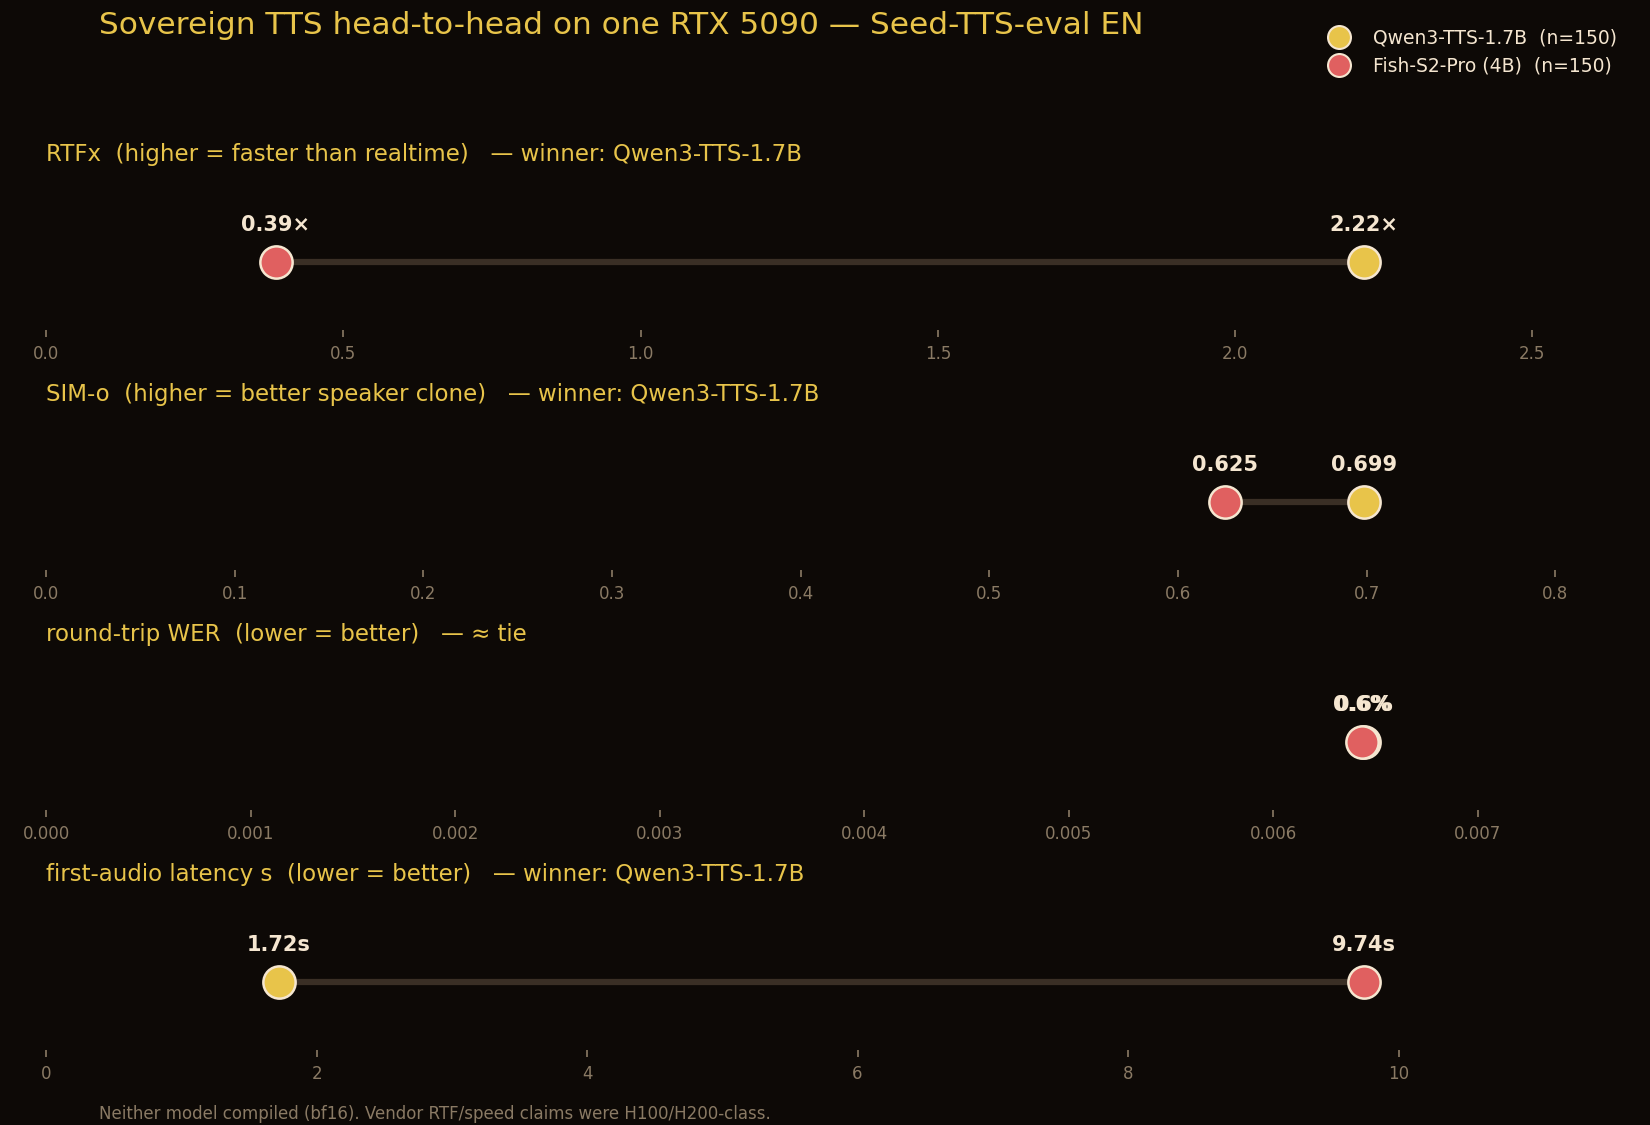
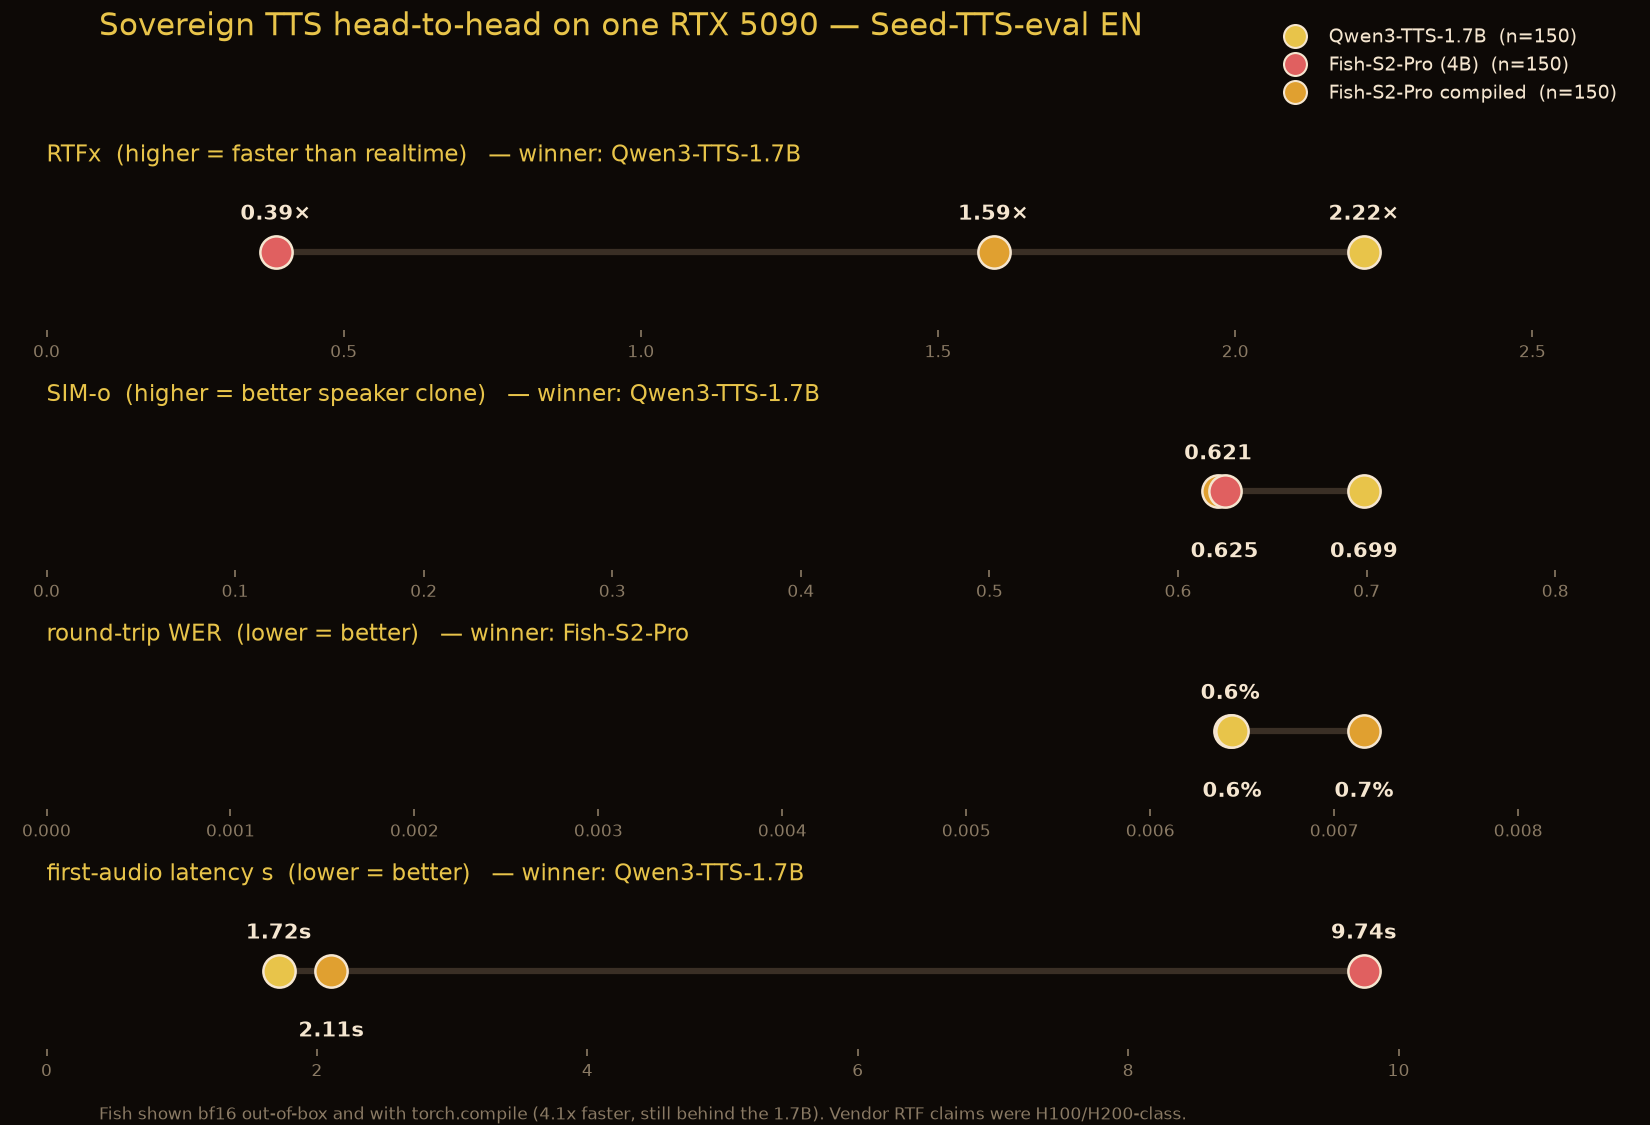
tts: compiled-Fish follow-up — torch.compile is 4.1x but the 1.7B still wins
Re-ran Fish-S2-Pro with --compile on sm_120, same 150 Seed-TTS EN utts.
RTFx 0.39x -> 1.59x (4.1x), first-audio 9.74s -> 2.11s (4.6x); WER/SIM-o
unchanged (pure speed lever). Gap to Qwen3-TTS-1.7B shrinks 5.7x -> 1.4x but
does not close: even compiled, the 4x-smaller 1.7B wins both speed axes with no
compile step. Adds compiled column + follow-up section + 3-way chart.

diff --git a/scripts/chart_tts.py b/scripts/chart_tts.py
@@ -11,7 +11,8 @@ import matplotlib.pyplot as plt
 BG, GOLD, CRIMSON, TEXT, GRID, MUTE = ("#0d0906", "#e8c44a", "#e06060", "#f5e6d0", "#3a2f25", "#8a7a64")
 
 # (slug, label, color)
-MODELS = [("qwen3-tts", "Qwen3-TTS-1.7B", GOLD), ("fish-s2-pro", "Fish-S2-Pro (4B)", CRIMSON)]
+MODELS = [("qwen3-tts", "Qwen3-TTS-1.7B", GOLD), ("fish-s2-pro", "Fish-S2-Pro (4B)", CRIMSON),
+          ("fish-s2-pro-compiled", "Fish-S2-Pro compiled", "#e0a030")]
 # (agg key, axis label, higher_is_better, value format)
 AXES = [
     ("rtfx_mean", "RTFx  (higher = faster than realtime)", True, "{:.2f}×"),
@@ -30,10 +31,15 @@ for ax, (key, label, hib, fmt) in zip(axs, AXES):
     lo, hi = min(v for v, _, _ in vals), max(v for v, _, _ in vals)
     # the connecting bar
     ax.plot([lo, hi], [0, 0], color=GRID, lw=3, zorder=1, solid_capstyle="round")
-    for v, lbl, col in vals:
+    span = (hi * 1.20) or 1.0
+    last_x = -1e9
+    for v, lbl, col in sorted(vals, key=lambda t: t[0]):
         ax.scatter([v], [0], s=240, color=col, edgecolor=TEXT, lw=1.2, zorder=3)
-        ax.annotate(fmt.format(v), (v, 0), xytext=(0, 13), textcoords="offset points",
-                    color=TEXT, ha="center", va="bottom", fontsize=10, fontweight="bold", zorder=4)
+        close = (v - last_x) < 0.10 * span      # too near the previous label -> drop this one below
+        ax.annotate(fmt.format(v), (v, 0), xytext=(0, -24 if close else 13),
+                    textcoords="offset points", color=TEXT, ha="center",
+                    va="top" if close else "bottom", fontsize=10, fontweight="bold", zorder=4)
+        last_x = v
     # verdict: a near-equal gap is a tie, not a "winner" (avoids exaggerating noise)
     rel = abs(hi - lo) / (hi or 1.0)
     if rel < 0.03:
@@ -44,7 +50,7 @@ for ax, (key, label, hib, fmt) in zip(axs, AXES):
     ax.set_title(f"{label}   — {verdict}", color=GOLD, fontsize=11, loc="left", pad=10)
     # baseline at 0 so tiny absolute gaps (e.g. a WER tie) aren't exaggerated by auto-scale
     ax.set_xlim(0, hi * 1.20)
-    ax.set_ylim(-1.2, 1.4)
+    ax.set_ylim(-1.8, 1.6)
     ax.get_yaxis().set_visible(False)
     ax.tick_params(colors=MUTE, labelsize=8)
     for sp in ax.spines.values():
@@ -57,7 +63,7 @@ fig.legend(handles=handles, loc="upper right", frameon=False, labelcolor=TEXT, f
            bbox_to_anchor=(0.99, 0.99))
 fig.suptitle("Sovereign TTS head-to-head on one RTX 5090 — Seed-TTS-eval EN",
              color=GOLD, fontsize=15, x=0.06, ha="left", y=0.99)
-fig.text(0.06, 0.005, "Neither model compiled (bf16). Vendor RTF/speed claims were H100/H200-class.",
+fig.text(0.06, 0.005, "Fish shown bf16 out-of-box and with torch.compile (4.1x faster, still behind the 1.7B). Vendor RTF claims were H100/H200-class.",
          color=MUTE, fontsize=8, ha="left")
 fig.tight_layout(rect=[0, 0.02, 1, 0.94])
 fig.savefig("reports/tts-head-to-head.png", dpi=150, facecolor=BG)

diff --git a/reports/tts-head-to-head.md b/reports/tts-head-to-head.md
@@ -6,12 +6,12 @@
 
 ## The numbers (both n=150)
 
-| axis | Qwen3-TTS-1.7B | Fish-S2-Pro (4B) | winner |
-|---|---|---|---|
-| round-trip WER | 0.6% | 0.6% | ≈ tie |
-| SIM-o (speaker clone) | **0.699** | 0.625 | Qwen |
-| RTFx (× realtime) | **2.22×** | 0.39× | Qwen (**5.7×**) |
-| first-audio latency | **1.72s** | 9.74s | Qwen |
+| axis | Qwen3-TTS-1.7B | Fish-S2-Pro (4B) | Fish-S2-Pro compiled | winner |
+|---|---|---|---|---|
+| round-trip WER | 0.6% | 0.6% | 0.7% | ≈ tie |
+| SIM-o (speaker clone) | **0.699** | 0.625 | 0.621 | Qwen |
+| RTFx (× realtime) | **2.22×** | 0.39× | 1.59× | Qwen |
+| first-audio latency | **1.72s** | 9.74s | 2.11s | Qwen |
 
 **Both are equally intelligible. The small one is ~6× faster, clones a touch better, and answers ~6× sooner.** On a consumer 5090, out-of-the-box, the 1.7B Apache model is the better sovereign pick.
 
@@ -22,9 +22,18 @@
 - **Latency compounds it.** First audio at 1.72s (Qwen) vs 9.74s (Fish) — the 4B's longer generate makes it unusable for anything interactive without the compiled path.
 - **SIM-o: a real but modest edge to Qwen** (0.699 vs 0.625). Both clone faithfully from a single reference; Qwen's embeddings sit closer to the prompt speaker.
 
+## Compiled-Fish: does the gap close? (the follow-up, run 2026-06-22)
+
+Re-ran Fish through its `api_server` with `--compile` on the same 150 utterances, same sm_120 5090, everything else identical.
+
+- **Compile is a large, real lever on consumer hardware.** RTFx goes **0.39× → 1.59×** (4.1×) and first-audio **9.74s → 2.11s** (4.6×). Fish moves from 3× slower than realtime to 1.6× faster. The vendor's "fast with `torch.compile`" direction is not H200-only; it lands on a 5090.
+- **Quality is untouched** (WER 0.7%, SIM-o 0.621, both within noise of the out-of-box run) — confirming compile is a pure speed lever, not a quality trade.
+- **But it does not flip the verdict.** Even compiled, Fish (1.59×, 2.11s) still loses both speed axes to the 4×-smaller Qwen3-TTS-1.7B (2.22×, 1.72s), which needs no compile step at all. The gap shrinks from **5.7× to 1.4×**; it does not close.
+- **The cost is a one-time 110s compile warm-up** at server startup before the first synth.
+
 ## Caveats (read these before quoting the numbers)
 
-- **Neither model was compiled.** This is an honest out-of-the-box, single-5090 comparison. Fish's `api_server` supports `--compile`; with it, Fish's speed would improve materially (toward its H200 claim). The apples-to-apples choice here was no-compile for both. A compiled-Fish follow-up is the obvious next measurement.
+- **The main table is no-compile for both** — the honest apples-to-apples out-of-the-box comparison. The compiled-Fish follow-up above now quantifies the `--compile` path: 4.1× faster (1.59×), still 1.4× behind the uncompiled 1.7B.
 - **Round-trip WER uses whisper-large-v3 as the judge** — comparable *between* these two models on the same subset, not directly comparable to either vendor's own WER protocol.
 - **SIM-o is the standard WavLM-large+ECAPA** (`wavlm_large_finetune.pth`), the same metric the Seed-TTS / F5-TTS / CosyVoice papers report.
 - Licenses differ: Qwen3-TTS is **Apache-2.0**; Fish-S2-Pro is **research/non-commercial**. For a sovereign, ship-it stack that matters as much as the numbers.
@@ -32,7 +41,7 @@
 ## Worth it if / not if
 
 - **Reach for Qwen3-TTS-1.7B** if you want a fast, permissively-licensed voice-clone TTS that runs on one consumer GPU today. It is the out-of-the-box winner here on every axis that isn't a tie.
-- **Reach for Fish-S2-Pro** if you can pay the `--compile`/datacenter serving path and want its fine-grained inline prosody control (`[whisper]`, `[excited]`, free-form tags) — features this intelligibility/speed bench doesn't measure. Out-of-the-box on a 5090, it is not the pick.
+- **Reach for Fish-S2-Pro** if you want its fine-grained inline prosody control (`[whisper]`, `[excited]`, free-form tags) — features this intelligibility/speed bench doesn't measure — and you'll run the `--compile` path. Compiled, it is genuinely deployable (1.59× realtime, 2.11s first-audio), but it still trails the 1.7B on speed at 4× the size. Out-of-the-box without compile on a 5090, it is not the pick.
 
 ## Repro
 
